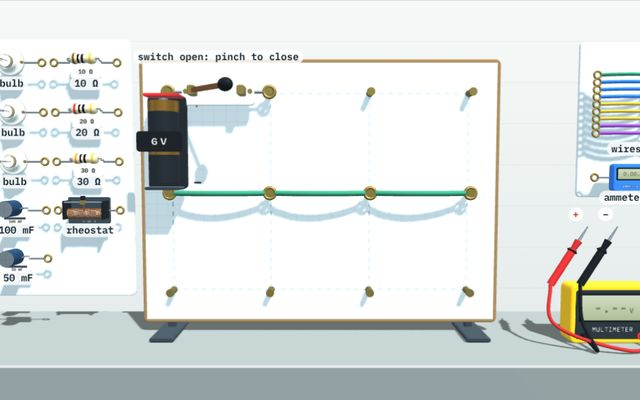
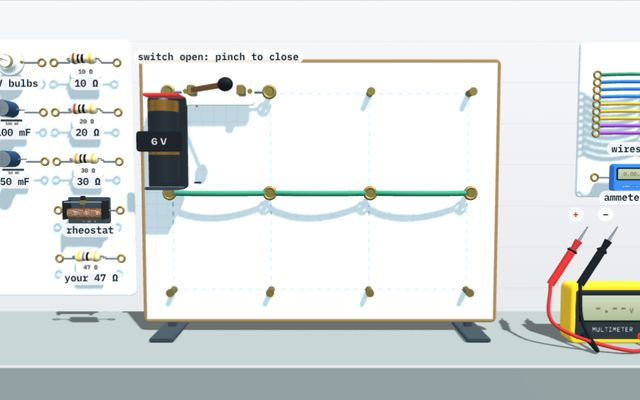
Circuit Builder: your own resistor values, bulbs of any rating that can burn out
- New resistor: type any value (0.1 Ω to 100 kΩ); the resistor at the bottom of
  the tray takes it, with matching colour bands. Up to 6 on the board.
- Bulbs: one tray stack (8 bulbs), rated 1.5, 3, 6, 9 or 12 V. Each takes 0.6 A at
  its rating (R = V ÷ 0.6). Brightness follows its own rating; a tag and a list
  under Measurements say off / no light / dim / working normally / too bright.
  Much more than the rating for a moment burns the bulb out: an open circuit
  until it goes back to the tray.
- Existing tasks, RC, R equivalent and short-circuit checks unchanged.

Claude-Session: https://claude.ai/code/session_01EJxk2nM6avKJzUWi38t4jE

Changed region(s): [[0.0, 0.18, 0.2188, 0.75], [0.0, 0.78, 0.1875, 0.81]]

diff --git a/hands-on-circuits.html b/hands-on-circuits.html
@@ -22,6 +22,13 @@
 .capread div{display:flex;flex-direction:column}.capread dt{font-size:.8rem;color:var(--muted)}.capread dd{margin:0;font:600 .98rem var(--data);font-variant-numeric:tabular-nums}
 .law{margin:6px 0 0;font:600 .9rem var(--data);color:var(--muted)}
 .law .cu{color:#3898A8}.law .ce{color:#D99B26}
+.newpart{display:flex;flex-direction:column;gap:6px}#bulbV{align-self:flex-start;max-width:100%}
+.rin{display:flex;align-items:center;gap:6px}.rin input{width:7.5em;font:600 1rem var(--data);padding:6px 8px;border:1.5px solid var(--line);border-radius:8px;background:var(--stage);color:var(--ink)}
+.rin .u{font:600 .95rem var(--data);color:var(--muted)}.rin input[aria-invalid="true"]{border-color:var(--bad)}.rin .btn{padding:5px 10px}
+.bands{display:inline-flex;gap:3px;align-items:center;margin-left:4px}.bands i{display:block;width:8px;height:20px;border-radius:2px;box-shadow:inset 0 0 0 1px rgba(0,0,0,.18)}
+.blist{margin:6px 0 0;padding:0;list-style:none;display:flex;flex-direction:column;gap:3px;font-size:.9rem}
+.blist li{display:flex;justify-content:space-between;gap:8px}.blist b{font-family:var(--data)}
+.blist .ok{color:var(--ok)}.blist .warn{color:#B36B00}.blist .bad{color:var(--bad)}.blist .off{color:var(--muted)}
 </style>
 <link rel="stylesheet" href="site.css">
 </head><body>
@@ -31,7 +38,7 @@
   <div>
    <p class="eyebrow">Grade 12 Physics · Module 19 Electric current and circuits · Simple circuits · Camera lab</p>
    <h1>Hands-On Lab: Circuit Builder</h1>
-   <p class="lede">Build circuits on the board with your own hand: bulbs, resistors, a rheostat, capacitors and wires. Close the switch, measure with the ammeter and the multimeter, read the equivalent resistance, and watch a capacitor charge and discharge. Pinch your thumb and first finger to pick a part up.</p>
+   <p class="lede">Build circuits on the board with your own hand: bulbs of any rating, resistors of any value, a rheostat, capacitors and wires. Close the switch, measure with the ammeter and the multimeter, read the equivalent resistance, and watch a capacitor charge and discharge. Pinch your thumb and first finger to pick a part up.</p>
   </div>
   <div class="row"><button class="btn" id="themeBtn" type="button">Dark mode</button></div>
  </header>
@@ -60,12 +67,23 @@
     </dl>
     <p class="rq"><span>R equivalent</span><b id="rEq">–</b></p>
     <p class="small" style="margin-top:6px" id="rEqWhy">What the battery sees, with the switch closed.</p>
-    <p class="small" style="margin-top:8px">Bulb 10 Ω · resistors 10, 20, 30 Ω · rheostat 0–50 Ω · capacitors 50 mF and 100 mF.</p>
+    <ul class="blist" id="bList"></ul>
+    <p class="small" style="margin-top:8px" id="partsNote">Resistors 10, 20, 30 Ω and your own · rheostat 0–50 Ω · capacitors 50 mF and 100 mF.</p>
    </div>
    <div class="card" id="capCard"><h3>Capacitor</h3>
     <canvas id="capG" aria-label="Voltage across the capacitor against time"></canvas>
     <dl class="capread"><div><dt>u<sub>C</sub></dt><dd id="cU">–</dd></div><div><dt>q = C·u<sub>C</sub></dt><dd id="cQ">–</dd></div><div><dt>τ from the graph</dt><dd id="cT">–</dd></div></dl>
     <p class="law" id="cLaw">Put a capacitor on the board.</p>
+   </div>
+   <div class="card ctl" id="newCard">
+    <div class="newpart"><h3>New bulbs</h3>
+     <div class="seg" id="bulbV"><button type="button" data-v="1.5" aria-pressed="false">1.5 V</button><button type="button" data-v="3" aria-pressed="false">3 V</button><button type="button" data-v="6" aria-pressed="true">6 V</button><button type="button" data-v="9" aria-pressed="false">9 V</button><button type="button" data-v="12" aria-pressed="false">12 V</button></div>
+     <p class="small" id="bulbNote">Take as many bulbs as you like from the tray. A 6 V bulb is 10 Ω and glows normally on 6 V.</p>
+    </div>
+    <div class="newpart"><h3>New resistor</h3>
+     <div class="rin"><input type="number" id="rVal" min="0.1" max="100000" step="any" value="47" inputmode="decimal" aria-label="Resistance of the next resistor, in ohms"><span class="u">Ω</span><span class="bands" id="rBands" aria-hidden="true"></span></div>
+     <p class="small">Type any value, then take the resistor from the bottom of the tray. Its colour bands match the value.</p>
+    </div>
    </div>
    <div class="card ctl">
     <div><h3>Battery</h3><div class="seg" id="emf"><button type="button" data-v="3" aria-pressed="false">3 V</button><button type="button" data-v="6" aria-pressed="true">6 V</button><button type="button" data-v="9" aria-pressed="false">9 V</button></div></div>
@@ -100,13 +118,13 @@ const PEG=COLS.map(x=>V(x,TOP)).concat(COLS.map(x=>V(x,MID)),COLS.map(x=>V(x,LOW
 const mkE=(id,a,b,fixed)=>({id,a,b,fixed:!!fixed,mid:PEG[a].clone().add(PEG[b]).multiplyScalar(.5),ang:PEG[a].y===PEG[b].y?0:Math.PI/2,part:null,I:0,U:0,ph:0});
 const BAT=mkE('battery',0,4,true),SW=mkE('switch',0,1,true),FREE=[mkE('t1',1,2),mkE('t2',2,3),mkE('b0',4,5),mkE('b1',5,6),mkE('b2',6,7),mkE('v1',1,5),mkE('v2',2,6),mkE('v3',3,7),
  mkE('d0',8,9),mkE('d1',9,10),mkE('d2',10,11),mkE('u0',4,8),mkE('u1',5,9),mkE('u2',6,10),mkE('u3',7,11)],ALL=[BAT,SW].concat(FREE);
-const RW=.0002,RB=.002,RBULB=10,PRATED=3.6;                                           // ohms: a wire or the ammeter, inside the battery, one bulb; watts at 6 V
+const RW=.0002,RB=.002,IRATED=.6,NB=8,NR=6;                                           // ohms: a wire or the ammeter, inside the battery; every bulb takes 0.6 A at its rated voltage; how many bulbs and own resistors the trays hold
 const S={tab:0,emf:6,closed:false,done:{},hold:0,V:new Float64Array(NP),Ib:0,short:false,shortT:0,meas:{},told:{},time:0,ammEdge:null,ch:0,chDone:false,
- rheo:25,mm:'V',hist:[],ht:0,hcap:null,hU0:0,hUf:0,tauG:null,tauR:null,req:Infinity,rth:Infinity,cycles:[]};
+ rheo:25,mm:'V',bulbV:6,rNew:47,hist:[],ht:0,hcap:null,hU0:0,hUf:0,tauG:null,tauR:null,req:Infinity,rth:Infinity,cycles:[]};
 
 const K=HandKit.create({hands:2,stage:$('stage'),canvas:$('gl'),hud:$('hud'),video:$('video'),intro:$('intro'),startCam:$('startCam'),startMouse:$('startMouse'),showCam:$('showCam'),status:setStatus,
  layout(k){const lx=-k.halfW+1.82,rx=k.halfW-1.05,ca=-k.halfW+1.05,cb=-k.halfW+2.6;trayL.position.x=lx;trayR.position.x=rx;
-  [...bulbs,...caps].forEach((b,i)=>b.userData.home.set(ca,5.75-i*1.02,0));[...ress,rheo].forEach((b,i)=>b.userData.home.set(cb,5.75-i*1.02,0));wires.forEach((w,i)=>w.userData.home.set(rx,5.95-i*.15,0));amm.userData.home.set(rx,3.38,0);
+  bulbs.forEach(b=>b.userData.home.set(ca,5.75,0));caps.forEach((b,i)=>b.userData.home.set(ca,4.73-i*1.02,0));[...ress,rheo].forEach((b,i)=>b.userData.home.set(cb,5.75-i*1.02,0));cress.forEach(r=>r.userData.home.set(cb,1.67,0));wires.forEach((w,i)=>w.userData.home.set(rx,5.95-i*.15,0));amm.userData.home.set(rx,3.38,0);
   volt.g.position.set(rx-.45,0,.25);probes[0].userData.home.set(rx-1.0,2.4,.4);probes[1].userData.home.set(rx-.4,2.4,.4);S.cab=null},
  onGrab,onDrop,onRelease,onFrame:frame,onHUD:hudDraw,
  onPinchEmpty(p,h){const i=nearPeg(p,.5);if(i>=0)h.wireFrom=i},
@@ -125,7 +143,15 @@ const cab=[P.cable(0xC62828,.035),P.cable(0x16191C,.035)];
 /* ---------- parts to pick up ---------- */
 const parts=[];
 function mk(id,type,obj,R,name){const it=K.addItem(id,obj.g,{kind:'part',type,R,name,r:.72,scale:.62,part:obj,firm:true,edge:null});it.scale.setScalar(.62);it.traverse(m=>{if(m.isMesh&&m.material.transparent)m.castShadow=false});parts.push(it);return it}
-const bulbs=[0,1,2].map(i=>mk('bulb'+i,'bulb',P.bulb(E),RBULB,'bulb'));
+const vTxt=v=>(v%1?v.toFixed(1):String(v))+' V';
+const bulbs=Array.from({length:NB},(_,i)=>{const it=mk('bulb'+i,'bulb',P.bulb(E,'6 V'),6/IRATED,'bulb');it.userData.Vr=6;it.userData.blown=false;it.userData.over=0;return it});
+function rateBulb(b,v){const u=b.userData;u.Vr=v;u.R=v/IRATED;u.blown=false;u.over=0;u.part.blown(false);u.part.setLabel(vTxt(v))}
+/* colour code for any value: two digits and a multiplier (gold ×0.1, silver ×0.01) */
+const BANDC=[0x111111,0x6B3F1D,0xC62828,0xE67E22,0xF1C40F,0x2E8B57,0x2F6FD0,0x7D3C98,0x8C8C8C,0xF4F4F4],GOLD=0xC9A227,SILV=0xB8BEC4;
+function bandsOf(r){let e=Math.floor(Math.log10(r))-1,d=Math.round(r/Math.pow(10,e));if(d>=100){d=10;e++}const m=e===-1?GOLD:e===-2?SILV:BANDC[Math.max(0,Math.min(9,e))];return [BANDC[Math.floor(d/10)],BANDC[d%10],m]}
+const fmtOhm=r=>{const k=r>=1000,v=k?r/1000:r,t=Number(v.toPrecision(3));return String(t)+(k?' kΩ':' Ω')};
+const cress=Array.from({length:NR},(_,i)=>{const it=mk('cres'+i,'res',P.resistor(E,'47 Ω',bandsOf(47)),47,'47 Ω');it.userData.custom=true;return it});
+function setOwnR(it,r){const u=it.userData;u.R=r;u.name=fmtOhm(r);u.part.set(fmtOhm(r),bandsOf(r))}
 const ress=[[10,[0x6B3F1D,0x111111,0x111111]],[20,[0xC62828,0x111111,0x111111]],[30,[0xE67E22,0x111111,0x111111]]].map(([r,b])=>mk('res'+r,'res',P.resistor(E,r+' Ω',b),r,r+' Ω'));
 const caps=[[100,'100 mF'],[50,'50 mF']].map(([c,t])=>{const it=mk('cap'+c,'cap',P.capacitor(E,t),Infinity,t);it.userData.C=c/1000;it.userData.vc=0;return it});
 const rheoP=P.rheostat(E),rheo=mk('rheo','rheo',rheoP,25,'rheostat');rheoP.set(25/50);
@@ -142,7 +168,7 @@ function place(it,e){const u=it.userData,old=e.part,f=u.from;u.from=null;
 function unplace(it,goHome){const u=it.userData;if(u.edge){u.edge.part=null;u.edge=null}u.placed=false;if(goHome){u.scale=.62;K.home(it)}changed()}
 function changed(){S.meas={};S.hold=0}
 function setSwitch(on){S.closed=on;knife.set(on);changed();newCurve()}
-function starter(){caps.forEach(c=>c.userData.vc=0);S.hist=[];S.cycles=[];S.tauG=null;parts.forEach(it=>{if(it.userData.edge)unplace(it,true);else{it.userData.scale=.62;K.home(it)}});probes.forEach(p=>{p.userData.peg=-1;p.userData.placed=false;K.home(p)});['b0','b1','b2'].forEach((id,i)=>place(wires[i],FREE.find(e=>e.id===id)));setSwitch(false);S.short=false;S.ammEdge=null}
+function starter(){caps.forEach(c=>c.userData.vc=0);bulbs.forEach(b=>rateBulb(b,S.bulbV));cress.forEach(c=>setOwnR(c,S.rNew));S.hist=[];S.cycles=[];S.tauG=null;parts.forEach(it=>{if(it.userData.edge)unplace(it,true);else{it.userData.scale=.62;K.home(it)}});probes.forEach(p=>{p.userData.peg=-1;p.userData.placed=false;K.home(p)});['b0','b1','b2'].forEach((id,i)=>place(wires[i],FREE.find(e=>e.id===id)));setSwitch(false);S.short=false;S.ammEdge=null}
 
 function onGrab(it,h){const u=it.userData;
  if(u.kind==='switch'){S.tripped=false;setSwitch(!S.closed);return}
@@ -163,7 +189,7 @@ function onRelease(h){if(h.wireFrom==null)return;const a=h.wireFrom;h.wireFrom=n
 /* ---------- the circuit: node voltages by Kirchhoff's current law ----------
    A capacitor is a conductance C/dt with a current source that remembers its voltage (backward Euler),
    so it charges and discharges with the real time constant τ = R·C. Terminal 4, the battery's − end, is 0 V. */
-const Rof=it=>{const u=it.userData;return u.type==='rheo'?S.rheo:u.R};
+const Rof=it=>{const u=it.userData;return u.type==='rheo'?S.rheo:u.type==='bulb'&&u.blown?1e12:u.R};
 function gauss(G,J,n,gnd){const idx=[];for(let i=0;i<n;i++)if(i!==gnd)idx.push(i);const m=idx.length,A=idx.map(i=>{const r=new Float64Array(m+1);idx.forEach((j,c)=>r[c]=G[i][j]);r[m]=J[i];return r});
  for(let c=0;c<m;c++){let p=c;for(let r=c+1;r<m;r++)if(Math.abs(A[r][c])>Math.abs(A[p][c]))p=r;const t=A[c];A[c]=A[p];A[p]=t;const d=A[c][c];for(let r=c+1;r<m;r++){const f=A[r][c]/d;if(f)for(let q=c;q<=m;q++)A[r][q]-=f*A[c][q]}}
  const x=new Float64Array(m);for(let r=m-1;r>=0;r--){let s=A[r][m];for(let q=r+1;q<m;q++)s-=A[r][q]*x[q];x[r]=s/A[r][r]}
@@ -198,7 +224,7 @@ const TASKS=[
   ['amm','Put the ammeter into the loop',()=>{const L=lit();if(L.length>=2&&inSeries(L)&&ammI()>.01){S.ammEdge=amm.userData.edge.id;S.amm1=ammI();return 'The ammeter reads '+A2(ammI())+'. An ammeter goes in the loop, so that the current passes through it. Now move it to a different gap in the same loop.'}}],
   ['amm2','Move the ammeter to another place in the loop',()=>{const L=lit();return L.length>=2&&inSeries(L)&&ammI()>.01&&amm.userData.edge.id!==S.ammEdge&&'The same reading: '+A2(ammI())+'. In a series circuit the current is the same everywhere. The bulbs do not use current up; they turn electrical energy into light and heat. Now use the voltmeter: touch its two probes on the two ends of a bulb.'}],
   ['volt','Measure the voltage across each bulb, then across the battery',()=>{const L=lit();if(L.length<2||!L.every(e=>S.meas[e.id]!=null)||S.meas.bat==null)return false;return L.map(e=>V2(S.meas[e.id])).join(' + ')+' = '+V2(L.reduce((a,e)=>a+Math.round(S.meas[e.id]*100)/100,0))+', and the battery gives '+V2(S.meas.bat)+'. In series the voltages across the parts add up to the battery voltage. Now add a third bulb to the loop.'}],
-  ['third','Add a third bulb to the same loop',()=>{const L=lit();return S.closed&&L.length===3&&inSeries(L)&&'Three bulbs in series are dimmer still. The current fell to '+A2(S.Ib)+' because the resistance of the loop went up: R = R₁ + R₂ + R₃ = 30 Ω. Now take one bulb out and leave its gap empty.'}],
+  ['third','Add a third bulb to the same loop',()=>{const L=lit();return S.closed&&L.length===3&&inSeries(L)&&'Three bulbs in series are dimmer still. The current fell to '+A2(S.Ib)+' because the resistance of the loop went up: R = R₁ + R₂ + R₃ = '+fx(bulbs.filter(b=>b.userData.edge).reduce((a,b)=>a+b.userData.R,0),1)+' Ω. Now take one bulb out and leave its gap empty.'}],
   ['gap','Take one bulb out and leave the gap open',()=>S.closed&&S.Ib<.002&&bulbs.filter(b=>b.userData.edge).length>=2&&'Every bulb goes out. A series circuit has one path only: break it anywhere and the current stops everywhere. Open the Parallel tab next.']]},
  {tab:'2 · Parallel',intro:'Parallel circuit: give each bulb its own branch, joined straight across the battery. Put bulbs in two of the upright gaps and join the top rail with a wire, then close the switch.',steps:[
   ['build','Put two bulbs in separate branches and close the switch',()=>{const L=lit();return S.closed&&L.length===2&&fullV(L)&&same(L.reduce((a,e)=>a+Math.abs(e.I),0),S.Ib)&&'Both bulbs are at full brightness. Each one is joined straight across the battery, so each has its own path: a parallel circuit. Now measure the voltage across each bulb.'}],
@@ -226,7 +252,15 @@ $('tabs').innerHTML=TASKS.map((t,i)=>`<button class="tab" role="tab" aria-select
 document.querySelectorAll('#tabs .tab').forEach(b=>b.onclick=()=>setTab(+b.dataset.i));
 $('next').onclick=()=>{S.ch=(S.ch+1)%GOALS.length;S.chDone=false;S.hold=0;steps();say('Next target: '+fx(S.emf/GOALS[S.ch][0],2)+' A. Rearrange the resistors.')};
 $('reset').onclick=()=>{starter();say('Board cleared: the bottom rail is wired, the switch is open.')};
-document.querySelectorAll('#emf button').forEach(b=>b.onclick=()=>{S.emf=+b.dataset.v;bat.setLabel(S.emf+' V');document.querySelectorAll('#emf button').forEach(x=>x.setAttribute('aria-pressed',x===b));changed();steps();say('Battery: '+S.emf+' V.'+(S.emf===9?' The bulbs are made for 6 V, so on 9 V a single bulb is far too bright.':''))});
+document.querySelectorAll('#emf button').forEach(b=>b.onclick=()=>{S.emf=+b.dataset.v;bat.setLabel(S.emf+' V');document.querySelectorAll('#emf button').forEach(x=>x.setAttribute('aria-pressed',x===b));changed();steps();say('Battery: '+S.emf+' V.'+(S.emf>S.bulbV*1.4?' A '+vTxt(S.bulbV)+' bulb alone on '+S.emf+' V gets far too much voltage and will burn out.':''))});
+/* new parts: the rating of the bulbs and the value of your own resistor waiting in the tray */
+function bulbNote(){const v=S.bulbV,r=v/IRATED;$('bulbNote').textContent='Take as many bulbs as you like from the tray. A '+vTxt(v)+' bulb is '+fx(r,r<10?2:1).replace(/\.0+$/,'')+' Ω and glows normally with '+vTxt(v)+' across it. Much more than that burns it out.'}
+document.querySelectorAll('#bulbV button').forEach(b=>b.onclick=()=>{S.bulbV=+b.dataset.v;document.querySelectorAll('#bulbV button').forEach(x=>x.setAttribute('aria-pressed',x===b));bulbNote();say('The bulbs in the tray are now '+vTxt(S.bulbV)+' bulbs. Bulbs already on the board keep their rating.')});
+const hex=c=>'#'+c.toString(16).padStart(6,'0');
+function showBands(r){$('rBands').innerHTML=bandsOf(r).concat([GOLD]).map(c=>`<i style="background:${hex(c)}"></i>`).join('')}
+$('rVal').addEventListener('input',()=>{const v=parseFloat(String($('rVal').value).replace(',','.'));if(!(v>=.1&&v<=100000)){$('rVal').setAttribute('aria-invalid','true');return}$('rVal').removeAttribute('aria-invalid');S.rNew=v;showBands(v)});
+$('rVal').addEventListener('change',()=>{const v=parseFloat(String($('rVal').value).replace(',','.'));if(!(v>=.1&&v<=100000)){$('rVal').value=S.rNew;$('rVal').removeAttribute('aria-invalid');say('Use a value between 0.1 Ω and 100 kΩ.')}else say('The resistor at the bottom of the tray is now '+fmtOhm(v)+'. Resistors already on the board keep their value.')});
+showBands(S.rNew);bulbNote();
 function check(dt){const t=TASKS[S.tab];
  if(S.tab===2){if(S.chDone)return;const g=GOALS[S.ch],tg=S.emf/g[0],ok=S.closed&&noBulb()&&ammI()>.003&&same(ammI(),S.Ib)&&Math.abs(ammI()-tg)<=.015*tg+.002;S.hold=ok?S.hold+dt:0;
   if(S.hold>.8){S.chDone=true;S.done[key('g'+S.ch)]=true;if(GOALS.every((q,i)=>S.done[key('g'+i)]))S.done['2:all']=true;say('Target reached: '+A2(ammI())+'. R = V ÷ I = '+fx(BAT.U/S.Ib,1)+' Ω, which is '+g[1]+'.'+(S.done['2:all']?' You have made all six.':''));steps()}
@@ -287,7 +321,14 @@ function frame(dt0,now){const dt=Math.min(.1,Math.max(.004,(now-(frame.last||now
    say('Short circuit! There is a path from one end of the battery to the other with almost no resistance'+(amm.userData.edge&&Math.abs(amm.userData.edge.I)>10&&S.tab!==2?' (an ammeter has almost none, so never connect it straight across the battery or across a part)':'')+'. A huge current flows, the wires get hot and the battery is damaged. The breaker is opening the switch.')}
   if(S.shortT>1.3){setSwitch(false);S.tripped=true}}
  else{S.shortT=0;S.short=false}
- bulbs.forEach(b=>{const e=b.userData.edge,p=e&&!S.short?e.I*e.I*RBULB/PRATED:0;b.userData.g=(b.userData.g||0)+(p-(b.userData.g||0))*Math.min(1,dt*9);b.userData.part.glow(Math.pow(b.userData.g,.75))});
+ bulbs.forEach(b=>{const u=b.userData,e=u.edge,r=e&&!S.short&&!u.blown?Math.abs(e.U)/u.Vr:0,p=r*r;   // power as a share of the rated power (the resistance stays the same)
+  u.ratio=r;u.g=(u.g||0)+(Math.min(p,2.2)-(u.g||0))*Math.min(1,dt*9);u.part.glow(Math.pow(u.g,.75));
+  if(r>1.4){u.over+=dt;if(u.over>.7){u.blown=true;u.part.blown(true);changed();say('The '+vTxt(u.Vr)+' bulb burned out! It had '+V2(Math.abs(e.U))+' across it, much more than the '+vTxt(u.Vr)+' it is made for, so the filament melted. A blown bulb is a break in the circuit. Put it back in the tray to get a new one.')}}else u.over=Math.max(0,u.over-dt);
+  if(!e&&!K.holder(b)&&(u.blown||u.Vr!==S.bulbV))rateBulb(b,S.bulbV)});      // back in the tray: a fresh bulb of the chosen rating
+ cress.forEach(c=>{const u=c.userData;if(!u.edge&&!K.holder(c)&&u.R!==S.rNew)setOwnR(c,S.rNew)});
+ // the trays show only the top part of each stack
+ [bulbs,cress].forEach(st=>{let top=null;st.forEach(it=>{const u=it.userData,free=!u.edge&&!K.holder(it);if(free&&!top)top=it;const show=!free||it===top;u.hidden=!show;it.visible=show})});
+ bulbList();
  // meters
  ammP.show(amm.userData.edge?fx(Math.min(99.99,ammI()),2):'0.00','A',!amm.userData.edge);
  probes.forEach(q=>{if(!K.holder(q))return;const i=nearPeg(q.position,.42);q.userData.peg=i;if(i>=0)q.position.set(PEG[i].x,PEG[i].y,.14)});    // a probe held on a terminal reads at once: hold one in each hand
@@ -306,6 +347,10 @@ function frame(dt0,now){const dt=Math.min(.1,Math.max(.004,(now-(frame.last||now
  const kq=probes.map(p=>p.position.x.toFixed(2)+p.position.y.toFixed(2)+p.position.z.toFixed(2)).join()+volt.g.position.x.toFixed(2);if(kq!==S.cab){S.cab=kq;volt.g.updateMatrixWorld(true);probes.forEach((p,i)=>{p.updateMatrixWorld(true);const a=p.localToWorld(p.tail.clone()),b=volt.post(1-i);cab[i].set([a,V(a.x-.05,Math.max(.12,a.y-.7),a.z+.25),V(b.x+(a.x-b.x)*.3,.07,b.z+.6),V(b.x,.09,b.z+.3),b])})}
  check(dt)}
 
+function bulbState(u){if(u.blown)return ['blown','bad'];const r=u.ratio||0;if(r<.05)return ['off','off'];if(r<.3)return ['too little voltage: no light','off'];if(r<.8)return ['dim','off'];if(r<=1.15)return ['working normally','ok'];return ['too bright: it will burn out','warn']}
+function bulbList(){const on=bulbs.filter(b=>b.userData.edge);const k=on.map(b=>{const u=b.userData,st=bulbState(u);return u.Vr+'|'+st[0]+'|'+(u.edge?fx(Math.abs(u.edge.U),1):'')}).join();if(k===bulbList.k)return;bulbList.k=k;
+ $('bList').innerHTML=on.length?on.map((b,i)=>{const u=b.userData,st=bulbState(u);return `<li><span>${i+1}. <b>${vTxt(u.Vr)}</b> bulb, gets ${fx(Math.abs(u.edge.U),1)} V</span><span class="${st[1]}">${st[0]}</span></li>`}).join(''):''}
+
 /* ---------- heads-up layer ---------- */
 function hudDraw(g){const ink=K.ink(),dk=K.isDark(),amber=dk?'#F2B84B':'#B36B00',blue=dk?'#7FB2FF':'#2F6FD0',bad=dk?'#FF8A7A':'#C0392B',el=$('showEl').checked,sc=v=>K.toScreen(v);
  // moving charge on every part that carries a current
@@ -313,10 +358,10 @@ function hudDraw(g){const ink=K.ink(),dk=K.isDark(),amber=dk?'#F2B84B':'#B36B00'
   for(let i=0;i<n;i++){const u=(i+e.ph)/n,p=sc(tmp.set(a.x+(b.x-a.x)*u,a.y+(b.y-a.y)*u,.5)),r=K.W*.0045+1.5;g.beginPath();g.arc(p[0],p[1],r,0,6.3);g.fill();g.stroke()}});
  // names of the parts in the trays
  if(rheo.userData.edge&&!K.holder(rheo)&&!K.holder(wip)&&K.W>520)K.tag('slide the knob',V(wip.position.x,wip.position.y+.34,.5),ink,0,false);
- if(K.W>520)parts.forEach(it=>{const u=it.userData;if(!u.edge&&!K.holder(it)&&(u.type!=='wire'||it===wires.filter(w=>!w.userData.edge&&!K.holder(w)).slice(-1)[0]))K.tag(u.type==='wire'?'wires':u.name,V(it.position.x,it.position.y-(u.type==='wire'?.32:.42),0),ink,0,true)});
+ if(K.W>520)parts.forEach(it=>{const u=it.userData;if(!u.edge&&!K.holder(it)&&!u.hidden&&(u.type!=='wire'||it===wires.filter(w=>!w.userData.edge&&!K.holder(w)).slice(-1)[0]))K.tag(u.type==='wire'?'wires':u.type==='bulb'?vTxt(u.Vr)+' bulbs':u.custom?'your '+u.name:u.name,V(it.position.x,it.position.y-(u.type==='wire'?.32:.42),0),ink,0,true)});
  probes.forEach(p=>{if(p.userData.peg<0&&!K.holder(p))K.tag(p===probes[0]?'+':'−',V(p.position.x-.25,p.position.y+.25,.5),p===probes[0]?bad:ink,0,true)});
  K.tag(S.closed?'switch closed':'switch open: pinch to close',V(SW.mid.x,SW.mid.y+.72,0),S.closed?(dk?'#4ACB8A':'#1E8A55'):ink,0,true);
- const vals=$('showVals').checked&&!S.short;FREE.forEach(e=>{const it=e.part;if(!it||it.userData.type==='wire'||K.holder(it))return;const ty=it.userData.type,res=ty==='res',tx=vals?fx(Math.abs(e.I),2)+' A'+(K.W>620?' · '+fx(Math.abs(e.U),2)+' V':''):res?it.userData.name:ty==='rheo'?'R = '+S.rheo+' Ω':ty==='cap'?it.userData.name+' · '+fx(Math.abs(it.userData.vc),2)+' V':'';if(tx)K.tag(tx,V(e.mid.x,e.mid.y-(e.id==='v2'&&K.W<=620?.4:.74),.3),ink,0,!vals)});
+ const vals=$('showVals').checked&&!S.short,green=dk?'#4ACB8A':'#1E8A55';FREE.forEach(e=>{const it=e.part;if(!it||it.userData.type==='wire'||K.holder(it))return;const ty=it.userData.type,res=ty==='res';if(ty==='bulb'&&!vals){const st=bulbState(it.userData);if(st[0]!=='off'||S.closed)K.tag(st[0]==='working normally'?vTxt(it.userData.Vr)+' · OK':st[0]==='too little voltage: no light'?'no light':st[0].split(':')[0],V(e.mid.x,e.mid.y-(e.id==='v2'&&K.W<=620?.4:.74),.3),st[1]==='ok'?green:st[1]==='bad'?bad:st[1]==='warn'?amber:ink,0,true);return}const tx=vals?fx(Math.abs(e.I),2)+' A'+(K.W>620?' · '+fx(Math.abs(e.U),2)+' V':''):res?it.userData.name:ty==='rheo'?'R = '+S.rheo+' Ω':ty==='cap'?it.userData.name+' · '+fx(Math.abs(it.userData.vc),2)+' V':'';if(tx)K.tag(tx,V(e.mid.x,e.mid.y-(e.id==='v2'&&K.W<=620?.4:.74),.3),ink,0,!vals)});
  if(S.short){const p=sc(V(BAT.mid.x,BAT.mid.y,.5)),r=K.W*.07*(1+.12*Math.sin(S.time*20));g.strokeStyle=bad;g.lineWidth=5;g.beginPath();g.arc(p[0],p[1],r,0,6.3);g.stroke();K.tag('SHORT CIRCUIT',V(0,5.2,.5),bad,0,true)}
  else if(S.tripped&&!S.closed)K.tag('breaker tripped: fix the circuit, then close the switch',V(0,5.2,.5),bad,0,true);
  // a wire being drawn from terminal to terminal
@@ -324,7 +369,7 @@ function hudDraw(g){const ink=K.ink(),dk=K.isDark(),amber=dk?'#F2B84B':'#B36B00'
 
 const theme0=K.theme;K.theme=()=>{theme0();const dk=K.isDark();board.face.color.set(dk?0x6C7D85:0xFFFFFF);trayM.color.set(dk?0x2A3A41:0xD9DFDC)};   // the white board and trays go slate grey in dark mode
 HandKit.themeButton($('themeBtn'),K);K.start();setTab(0);K.items.forEach(it=>{if(it.userData.placed)it.position.copy(it.userData.goal)});
-window.__HK=Object.assign(K,{S,PEG,FREE,ALL,BAT,SW,parts,bulbs,ress,wires,amm,probes,caps,rheo,wip,place,unplace,setSwitch,setTab,setRheo,solve,starter,resBetween,TASKS,GOALS});
+window.__HK=Object.assign(K,{S,PEG,FREE,ALL,BAT,SW,parts,bulbs,cress,rateBulb,setOwnR,bandsOf,ress,wires,amm,probes,caps,rheo,wip,place,unplace,setSwitch,setTab,setRheo,solve,starter,resBetween,TASKS,GOALS});
 })();
 </script>
 </body></html>

diff --git a/phys-parts.js b/phys-parts.js
@@ -226,7 +226,7 @@
       return g;
     }
     /* lamp in a holder. glow(u): 0 = off, 1 = normal brightness */
-    P.bulb = function (E) {
+    P.bulb = function (E, text) {
       var g = partBase(E, .42), gl = new T.MeshPhysicalMaterial({ color: 0xFFF6D8, transparent: true, opacity: .32, roughness: .03, depthWrite: false, envMapIntensity: 1.6, emissive: 0xFFC860, emissiveIntensity: 0 }), fil = std(0x55504A, .5, .4, { emissive: 0xFFB040, emissiveIntensity: 0 });
       var base = P.turned([[0, 0], [.46, 0], [.46, .08], [.4, .12], [.3, .12], [.3, .24], [.24, .3]], std(0xEDE7D8, .45), 32); base.rotation.x = PI / 2; g.add(base);
       var screw = P.turned([[.2, .2], [.215, .23], [.2, .26], [.215, .29], [.2, .32], [.215, .35], [.2, .38]], P.brass, 20); screw.rotation.x = PI / 2; g.add(screw);
@@ -234,17 +234,26 @@
       [-1, 1].forEach(function (s) { var sup = mesh(new T.CylinderGeometry(.012, .012, .3, 6), P.steel, s * .09, 0, .5); sup.rotation.x = PI / 2; g.add(sup); var scw = mesh(new T.CylinderGeometry(.05, .05, .05, 10), P.brass, s * .42, 0, .1); scw.rotation.x = PI / 2; g.add(scw); });
       var coil = mesh(new T.TorusGeometry(.09, .02, 6, 14, PI), fil, 0, 0, .65); coil.rotation.x = PI / 2; g.add(coil);
       var halo = new T.Sprite(new T.SpriteMaterial({ map: K.canvasTex(128, 128, function (x) { var gr = x.createRadialGradient(64, 64, 4, 64, 64, 64); gr.addColorStop(0, 'rgba(255,236,170,1)'); gr.addColorStop(.3, 'rgba(255,190,80,.55)'); gr.addColorStop(1, 'rgba(255,160,50,0)'); x.fillStyle = gr; x.fillRect(0, 0, 128, 128); }), transparent: true, opacity: 0, depthWrite: false })); halo.position.z = .75; g.add(halo);
-      return { g: g, glow: function (u) { var v = Math.max(0, Math.min(1.5, u)); gl.emissiveIntensity = v * 1.1; gl.opacity = .32 + .4 * Math.min(1, v); fil.emissiveIntensity = Math.min(1, u * 6) * 2.2; halo.material.opacity = Math.min(.8, v * .7); var s = .8 + 1.5 * v; halo.scale.set(s, s, 1); } };
+      // a small printed tag under the lamp gives its rated voltage (setLabel); blown(true) leaves a broken, smoky lamp
+      var btext = text || '', btx = ptex(192, 64, function (x) { x.clearRect(0, 0, 192, 64); if (!btext) return; x.fillStyle = '#F4F3EE'; x.beginPath(); if (x.roundRect) x.roundRect(4, 6, 184, 52, 12); else x.rect(4, 6, 184, 52); x.fill(); x.fillStyle = '#1B2024'; x.font = '700 38px ' + MONO; x.textAlign = 'center'; x.textBaseline = 'middle'; x.fillText(btext, 96, 34, 176); });
+      var btag = mesh(new T.PlaneGeometry(.6, .2), new T.MeshBasicMaterial({ map: btx, transparent: true, depthWrite: false }), 0, -.62, .03); g.add(btag);
+      var isBlown = false, cBase = gl.color.getHex();
+      return { g: g, glow: function (u) { if (isBlown) u = 0; var v = Math.max(0, Math.min(1.5, u)); gl.emissiveIntensity = v * 1.1; gl.opacity = (isBlown ? .55 : .32) + .4 * Math.min(1, v); fil.emissiveIntensity = Math.min(1, u * 6) * 2.2; halo.material.opacity = Math.min(.8, v * .7); var s = .8 + 1.5 * v; halo.scale.set(s, s, 1); },
+        setLabel: function (t) { btext = t; var c = btx.image.getContext('2d'); c.clearRect(0, 0, 192, 64); if (t) { c.fillStyle = '#F4F3EE'; c.beginPath(); if (c.roundRect) c.roundRect(4, 6, 184, 52, 12); else c.rect(4, 6, 184, 52); c.fill(); c.fillStyle = '#1B2024'; c.font = '700 38px ' + MONO; c.textAlign = 'center'; c.textBaseline = 'middle'; c.fillText(t, 96, 34, 176); } btx.needsUpdate = true; },
+        blown: function (on) { isBlown = !!on; gl.color.setHex(on ? 0x8A8378 : cBase); coil.visible = !on; if (on) { gl.emissiveIntensity = 0; fil.emissiveIntensity = 0; halo.material.opacity = 0; } } };
     };
     /* resistor with colour bands on a printed plinth. bands: three hex colours */
     P.resistor = function (E, text, bands) {
       var g = partBase(E, .52);
       g.add(mesh(P.rbox(1.0, .86, .07, .06, .015), std(0xF4F3EE, .5), 0, -.08, 0));
       var b = P.turned([[0, -.4], [.13, -.4], [.17, -.34], [.17, -.2], [.14, -.14], [.14, .14], [.17, .2], [.17, .34], [.13, .4], [0, .4]], std(0xD9C29A, .5), 20); b.rotation.z = PI / 2; b.position.set(0, .1, .2); g.add(b);
-      (bands || []).concat([0xC9A227]).forEach(function (c, i) { var r = mesh(new T.CylinderGeometry(i === 3 ? .175 : (i === 0 ? .175 : .145), i === 3 ? .175 : (i === 0 ? .175 : .145), .06, 18), std(c, .45), i === 3 ? .27 : -.27 + i * .14, .1, .2); r.rotation.z = PI / 2; g.add(r); });
+      var bandM = [];
+      (bands || []).concat([0xC9A227]).forEach(function (c, i) { var m = std(c, .45); bandM.push(m); var r = mesh(new T.CylinderGeometry(i === 3 ? .175 : (i === 0 ? .175 : .145), i === 3 ? .175 : (i === 0 ? .175 : .145), .06, 18), m, i === 3 ? .27 : -.27 + i * .14, .1, .2); r.rotation.z = PI / 2; g.add(r); });
       [-1, 1].forEach(function (s) { var w = mesh(new T.CylinderGeometry(.025, .025, .14, 6), P.steel, s * .46, .1, .2); w.rotation.z = PI / 2; g.add(w); var d = mesh(new T.CylinderGeometry(.025, .025, .2, 6), P.steel, s * .52, .05, .11); d.rotation.x = PI / 2; g.add(d); });
-      var lb = P.label(text, .8, .24, { ink: '#1B2024', size: .82, res: 192 }); lb.position.set(0, -.3, .04); g.add(lb);
-      return { g: g };
+      var rtext = text, rtx = ptex(192, 58, function (x) { x.clearRect(0, 0, 192, 58); x.fillStyle = '#1B2024'; x.textAlign = 'center'; x.textBaseline = 'middle'; x.font = '700 48px ' + MONO; x.fillText(rtext, 96, 31, 180); });
+      var lb = mesh(new T.PlaneGeometry(.8, .24), new T.MeshBasicMaterial({ map: rtx, transparent: true }), 0, -.3, .04); g.add(lb);
+      // set(text, bands): print a new value and repaint the first three colour bands
+      return { g: g, set: function (t, bd) { rtext = t; var c = rtx.image.getContext('2d'); c.clearRect(0, 0, 192, 58); c.fillStyle = '#1B2024'; c.textAlign = 'center'; c.textBaseline = 'middle'; c.font = '700 48px ' + MONO; c.fillText(t, 96, 31, 180); rtx.needsUpdate = true; (bd || []).forEach(function (col, i) { if (bandM[i]) bandM[i].color.setHex(col); }); } };
     };
     /* capacitor: a can on a printed plinth, with a bar that fills as it charges. charge(u): 0 = empty, 1 = full (u < 0: charged the other way) */
     P.capacitor = function (E, text) {
